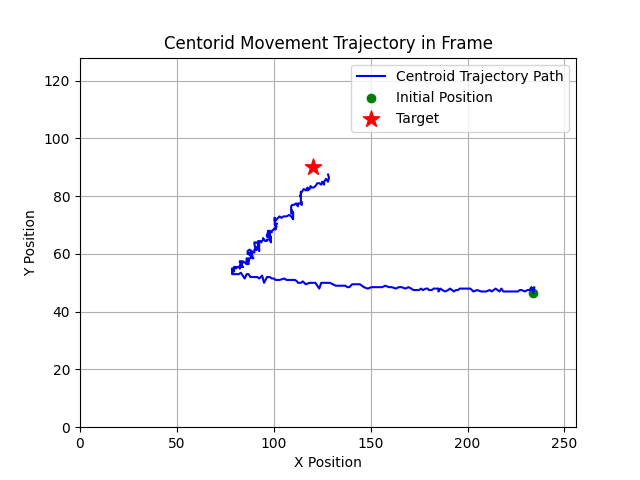
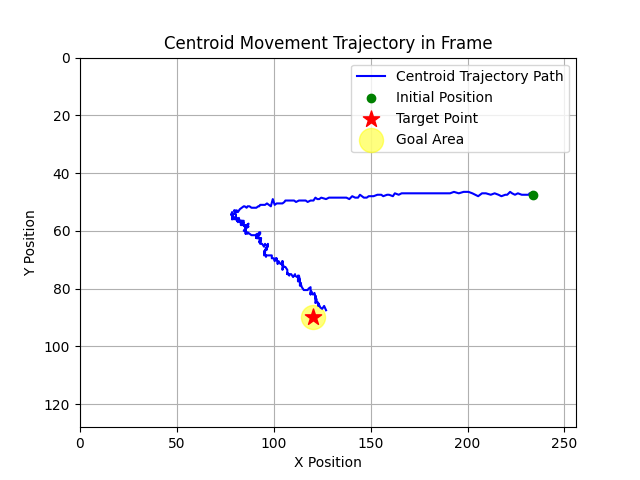
check: rev pengujian v2

diff --git a/controllers/main/VisuoExcaRobo.py b/controllers/main/VisuoExcaRobo.py
@@ -426,7 +426,11 @@ class VisuoExcaRobo:
         print("Test Job Done. Saving Results...")
 
         # Plot the results
-        centroid_init = centroid_list[0]        
+        centroid_init = centroid_list[0]    
+        
+        print(self.env_type, "test_3")
+        print(f"reward_list: {reward_list[-1]}")    
+        print(f"distance_list: {distance_list[-1]}")
 
         self.plot_results("test_3", reward_list, "Reward", "Plot Reward Over Time")
         self.plot_results(
@@ -454,8 +458,8 @@ class VisuoExcaRobo:
         x_pos, y_pos = zip(*positions)
         plt.figure()
         plt.plot(x_pos, y_pos, color="b", label="Excavator Trajectory Path")
-        plt.scatter([-4], [0], color="g", label="Initial Position")
-        plt.scatter([3.5], [-2], color="r", marker="*", s=150, label="Target")
+        plt.scatter([-4], [0], color="g", label="Excavator Initial Position")
+        plt.scatter([3.5], [-2], color="r", marker="*", s=150, label="Rock Position")
         plt.title(f"Excavator Movement Trajectory")
         plt.xlabel("X Position")
         plt.ylabel("Y Position")
@@ -469,28 +473,38 @@ class VisuoExcaRobo:
         output_dir = f"results_{test_type}/{self.env_type}_{self.today_date}/"
         os.makedirs(output_dir, exist_ok=True)
 
-        x_pos, y_pos = zip(*centroid)
+        # Filter out (0, 0) positions from the centroid list
+        filtered_centroid = [(x, y) for x, y in centroid if not (x == 0 and y == 0)]
+        
+        if filtered_centroid:
+            x_pos, y_pos = zip(*filtered_centroid)
+        else:
+            x_pos, y_pos = [], []
         x_init, y_init = init_position
         
         plt.figure()
-        plt.plot(x_pos, y_pos, color="b", label="Centroid Trajectory Path")
-        plt.scatter(x_init, y_init, color="g", label="Initial Position")
-        plt.scatter(120, 90, color="r", marker="*", s=150, label="Target Point")
-        
-        # Add the dashed circle with radius 3
-        circle = plt.Circle((120, 90), 3, color='r', fill=False, linestyle='--', label='Goal Area')
-        plt.gca().add_patch(circle)
+        plt.plot(x_pos, y_pos, color="b", label="Centroid Trajectory Path", zorder=3)
+        plt.scatter(x_init, y_init, color="g", label="Initial Position", zorder=4)
+                
+        if test_type == "test_3":
+            plt.scatter(120, 90, color="r", marker="*", s=150, label="Target Point", zorder=2)                
+            plt.scatter(120, 90, color="yellow", alpha=0.5, s=300, label="Goal Area", zorder=1)                
+        elif test_type == "test_1" or test_type == "test_2":
+            # Create rectangle for the goal area
+            rect_width = 129 - 127  # x_max - x_min
+            rect_height = 128 - 85.33  # Assuming y_max is the full height (128) since it's not provided
+            rectangle = plt.Rectangle((127, 85.33), rect_width, rect_height, color="r", alpha=0.6, zorder=1, label="Goal Area")
+            plt.gca().add_patch(rectangle)
 
         # Invert Y axis so (0,0) is at top-left corner
-        plt.gca().invert_yaxis()
+        plt.xlim([0, 256])
+        plt.ylim([128, 0])  # Inverted Y-axis
 
         plt.title("Centroid Movement Trajectory in Frame")
         plt.xlabel("X Position")
         plt.ylabel("Y Position")
         plt.legend()
         plt.grid(True)
-        plt.xlim([0, 256])
-        plt.ylim([0, 128])
 
         plt.savefig(output_dir + "centroid_trajectory.png")
 

diff --git a/controllers/main/Color_VisuoExcaRobo.py b/controllers/main/Color_VisuoExcaRobo.py
@@ -18,7 +18,7 @@ except ImportError:
 
 # Constants used in the environment
 ENV_ID = "Color_VisuoExcaRobo"
-OBS_SPACE_SCHEMA = 1  # 1: coordinates of the target, 2: pure image
+OBS_SPACE_SCHEMA = 1 # 1: coordinates of the target, 2: pure image
 REWARD_SCHEMA = 2  # 1: reward function based on pixel position, 2: reward function based on distance
 MAX_EPISODE_STEPS = 2000
 MAX_WHEEL_SPEED = 5.0
